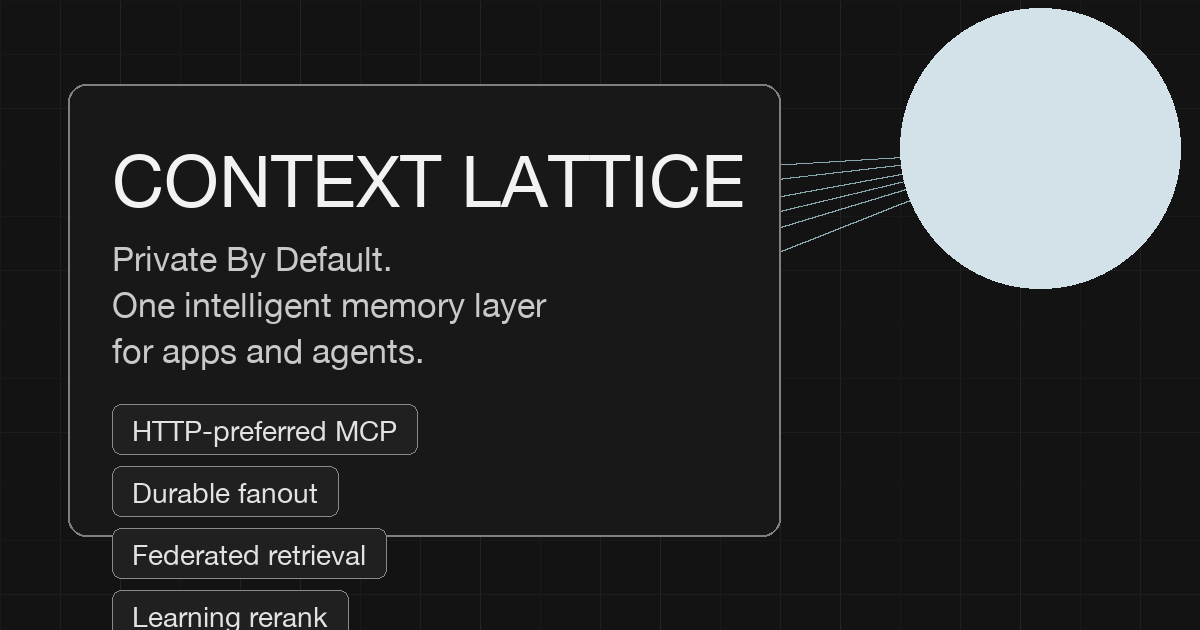
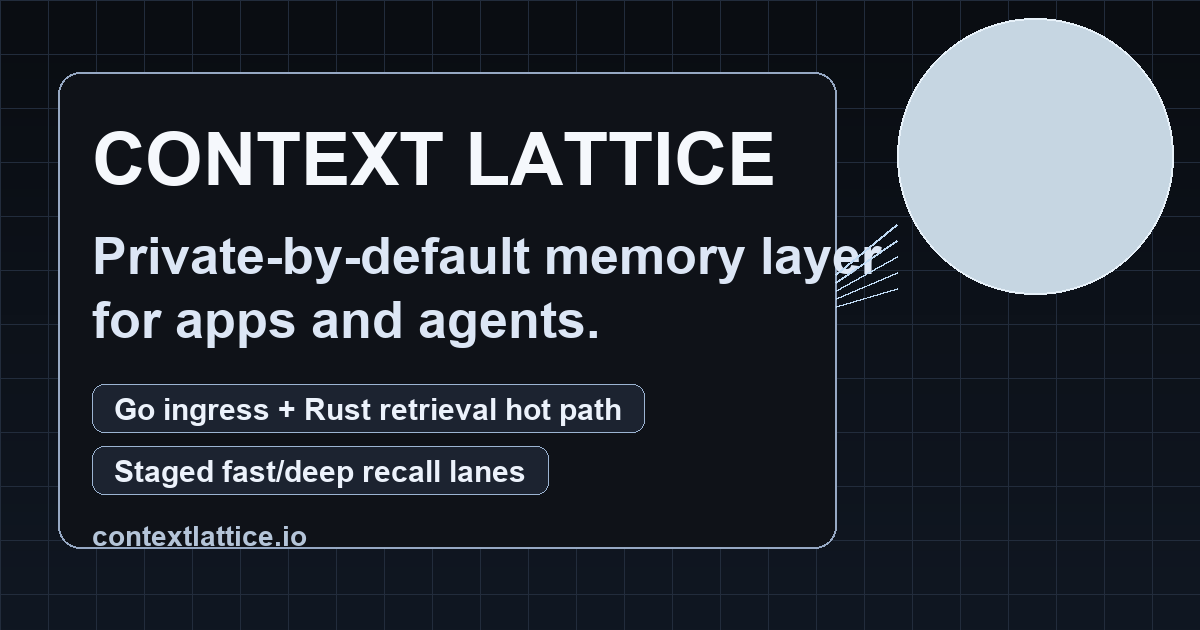
docs(website): improve social thumbnail legibility and cache-bust og image

diff --git a/docs/public_overview/index.html b/docs/public_overview/index.html
@@ -11,14 +11,14 @@
   <meta property="og:title" content="Context Lattice | Private memory fabric for AI agents" />
   <meta property="og:description" content="Private-by-default memory orchestration for apps and agents with HTTP-preferred MCP, durable fanout, and learning retrieval." />
   <meta property="og:url" content="https://contextlattice.io/" />
-  <meta property="og:image" content="https://contextlattice.io/assets/contextlattice-og-1200x630.png" />
+  <meta property="og:image" content="https://contextlattice.io/assets/contextlattice-og-1200x630.png?v=20260319a" />
   <meta property="og:image:width" content="1200" />
   <meta property="og:image:height" content="630" />
   <meta property="og:image:alt" content="Context Lattice: private-by-default memory layer for apps and agents" />
   <meta name="twitter:card" content="summary_large_image" />
   <meta name="twitter:title" content="Context Lattice | Private memory fabric for AI agents" />
   <meta name="twitter:description" content="Local-first memory orchestration with durable fanout and learning retrieval." />
-  <meta name="twitter:image" content="https://contextlattice.io/assets/contextlattice-og-1200x630.png" />
+  <meta name="twitter:image" content="https://contextlattice.io/assets/contextlattice-og-1200x630.png?v=20260319a" />
   <link rel="icon" type="image/png" sizes="512x512" href="assets/contextlattice-icon-512.png" />
   <link rel="stylesheet" href="styles-gray.css?v=20260219k" />
   <script type="application/ld+json">
